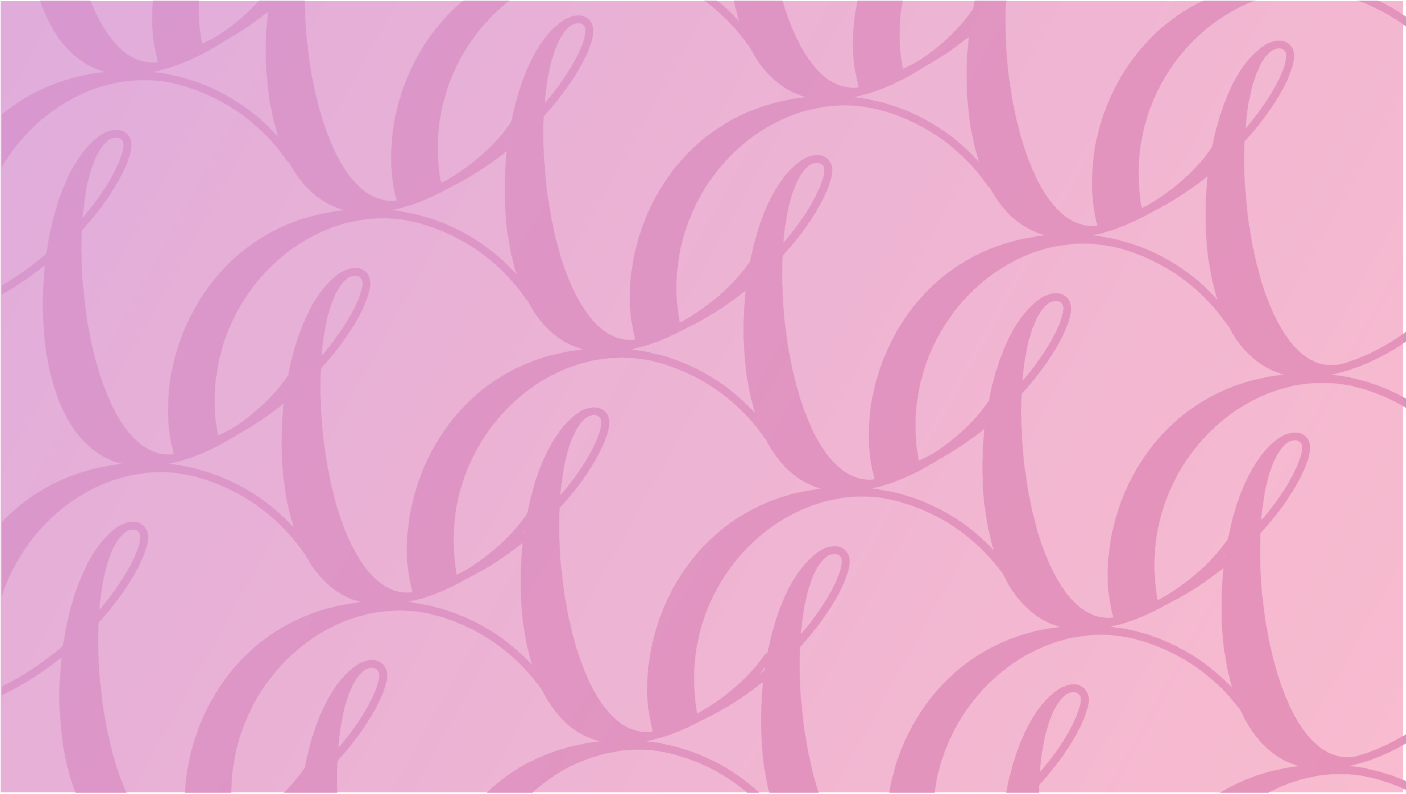
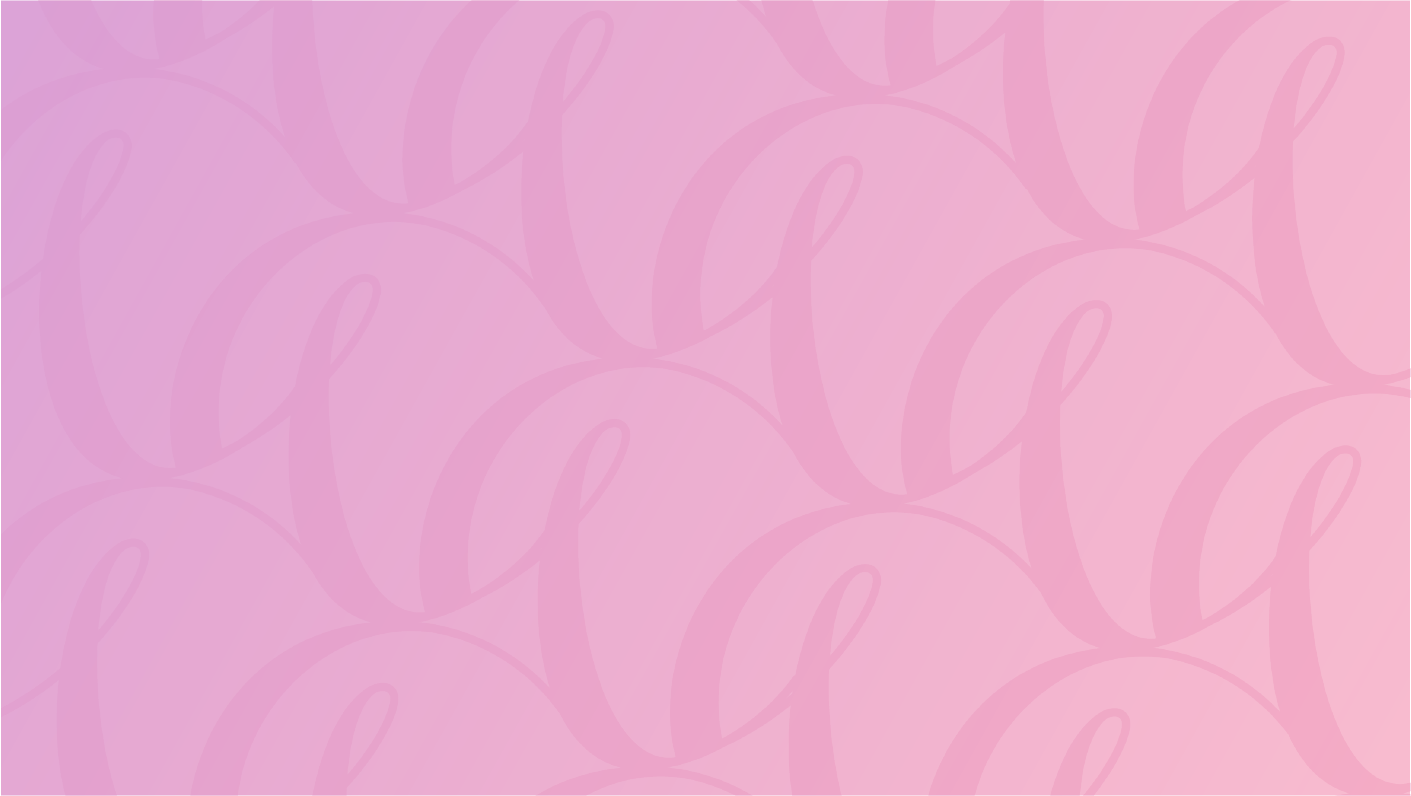
feedback

diff --git a/portfolio.html b/portfolio.html
@@ -15,7 +15,7 @@
         <header class="header" id="home">
                 <h3 class="padding1">Hi! I'm</h3>
                 <h1 class="padding2">LUCY COOK</h1>
-                <h5 class="padding2">Welcome to my space for<br>designing and creating</h5>
+                <h5 class="padding2">Welcome to my space for<br>designing and creating.</h5>
         </header>
         
 
@@ -49,7 +49,7 @@
         
         <section>
             
-<!--            <h4 class="border2">About Me</h4>-->
+            <h4 class="border2">About Me</h4>
             <div class="container">
                 <div class="box box1"><img src="icons/ixddesign.png" alt="Interaction Design Icon"/></div>
                 <div class="box box2"><img src="icons/branding.png" alt="Branding Icon"/></div>
@@ -59,7 +59,7 @@
                 <div class="box box6">Illustration</div>
                 <div class="box box7">I study Interaction Design (IXD) at the Belfast School of Art, and since beginning my course I have loved extending my skill set, exploring areas of design that I would’ve never considered before.</div>
                 <div class="box box8">Branding is one of my favourite aspects of design. Thinking my future designs for different companies could be on the likes of vechiles and billboards one day, brings me so much excitement.</div>
-                <div class="box box9">My illustrative side is purposefully to add more fun and colour to my designs. I think illustrations add more character and help tell a entertaining story rather than just words. I love exploring the endless different styles of illustration.</div>
+                <div class="box box9">My illustrative side is purposefully to add more fun and colour to my designs as illustrations add character and help tell a story rather than just words. I love exploring the endless different styles of illustration.</div>
                 <div class="box box10"><img src="icons/creative.png" alt="Creative Icon"/></div>
                 <div class="box box11"><img src="icons/hardworking.png" alt="Hard Working Icon"/></div>
                 <div class="box box12"><img src="icons/passionate.png" alt="Passionate Icon"/></div>
@@ -70,18 +70,8 @@
                 <div class="box box17">I consider myself as very dedicated and reliable person as I find myself continually working my way through projects until I am happy with what I’ve produced, no matter how long it has taken me to complete.</div>
                 <div class="box box18">I believe I am a passionate towards a number of things in life; design being one of them. I love feeling proud of what I have created and would love for my future clients to gain the same level of enjoyment from my designs.</div>
             </div>
-            
-            <div id="opportunities">
-            <div class="item">
-            <p>I am always looking for exciting design opportunities and new experiences so feel free
-                to send me an email and we can begin creating awesome together!</p></div>
-            <div class="item2">
-            <a class="button" href="mailto:lcook357@outlook.com" target="blank">Contact Me</a></div>
-            </div>
-        </section>
 
         <section id="portfolio">
-
             <div class="container2">
                 <div class="boxx boxx1">
                     <h4>My Portfolio</h4>
@@ -108,7 +98,10 @@
         </section>
             
         <footer id="contacts">
-            <p2>Say hi, email me for a chat or if you have any questions!<br>And check out more of my work on my social media.</p2>
+            <p2>I am always looking for exciting design opportunities and new experiences so feel free
+                to send me an email and we can begin creating awesome together!</p2>
+            <a class="button" href="mailto:lcook357@outlook.com" target="blank">Email Me</a>
+            <br><p2>And check out more of my work on my social media.</p2>
         
             <div class="icons">
             <a href="http://twitter.com/lucycookdesigns" target="blank" class="fa fa-twitter"></a>

diff --git a/style.css b/style.css
@@ -19,8 +19,9 @@ body {
 /*------------------ HEADER ------------------------*/
 
 .header{
-    height: 100vh;
-    background: linear-gradient(to bottom right, rgba(216,152,210,0.8), rgba(243,142,175,0.6));
+    height: 100vh; 
+    background-repeat: no-repeat;
+    /*background: linear-gradient(to bottom right, rgba(216,152,210,0.8), rgba(243,142,175,0.6));*/
     background-image: url(icons/continuous.png)
 }
 
@@ -88,8 +89,8 @@ h4 { /*My Portfolio*/
 
 h6{ /*portfolio titles*/
     font-family: 'rift-soft', sans-serif;
-    font-weight:normal;
-    font-size: 30px;
+    font-weight: normal;
+    font-size: 40px;
 }
 
 p3{ /*portfolio text*/
@@ -144,13 +145,13 @@ nav ul li {
     display: inline;
     margin: 0 40px}
 
-nav a:link {color: #000}
+nav a:link {color: #FDECF3}
 
-nav a:visited {color: #000;}
+nav a:visited {color: #FDECF3;}
 
 nav a:hover {
     -webkit-transition: all 0.2s ease-in;
-    color: #FDECF3}
+    color: #000}
 
 /*-------------------- I CONSIDER MYSELF AS - ABOUT ME SECTION ----------------------*/
 
@@ -182,6 +183,12 @@ nav a:hover {
     padding-left: 1em;
     padding-top: 0.1em;
     padding-bottom: 0.1em;}
+
+.border2 {background: #F38EAF;
+    margin-bottom: 0px;
+    padding-left: 70px;
+    padding-top: 40px;
+    padding-bottom: 30px;
 }
 
 /*------------------- NEW OPPORTUNITIES - ABOUT ME SECTION ------------------*/
@@ -204,6 +211,8 @@ nav a:hover {
     text-decoration: none;
     display: inline-block;
     font-size: 30px;
+    margin: 40px;
+    margin-bottom: 60px;
 } 
 
 #opportunities{
@@ -241,7 +250,7 @@ nav a:hover {
 }
 
 .box1, .box2, .box3, .box10, .box11, .box12{
-    padding-top: 40px;
+    padding-top: 10px;
 }
 
 .box1 img:hover{
@@ -264,9 +273,10 @@ nav a:hover {
 
 .box7, .box8, .box9, .box16, .box17, .box18{
     text-align: left;
-    padding-bottom: 40px;
+    padding-bottom: 70px;
     padding-left: 70px;
     padding-right: 50px;
+    line-height: 25px;
     width: calc(33.3333333% - 120px)
 }
 
@@ -291,15 +301,15 @@ nav a:hover {
 
 .boxx1{
     padding-top: 80px;
-    padding-left: 80px;
+    padding-left: 70px;
     padding-right: 60px;
-    width: calc(50% - 140px)
+    width: calc(50% - 130px)
 }
 
 .boxx4{
     padding-top: 130px;
     padding-left: 50px;
-    width: calc(50% - 150px)
+    width: calc(50% - 130px)
 }
 
 .boxx5{
@@ -324,8 +334,9 @@ nav a:hover {
 
 footer{
     text-align: center;
-    padding: 160px;
-    background: linear-gradient(to bottom right, rgba(216,152,210,0.8), rgba(243,142,175,0.6)); 
+    padding: 100px 150px 60px 150px;
+    background-image: url(icons/continuous.png);
+    background-repeat: no-repeat;
 }
 
 .icons {
